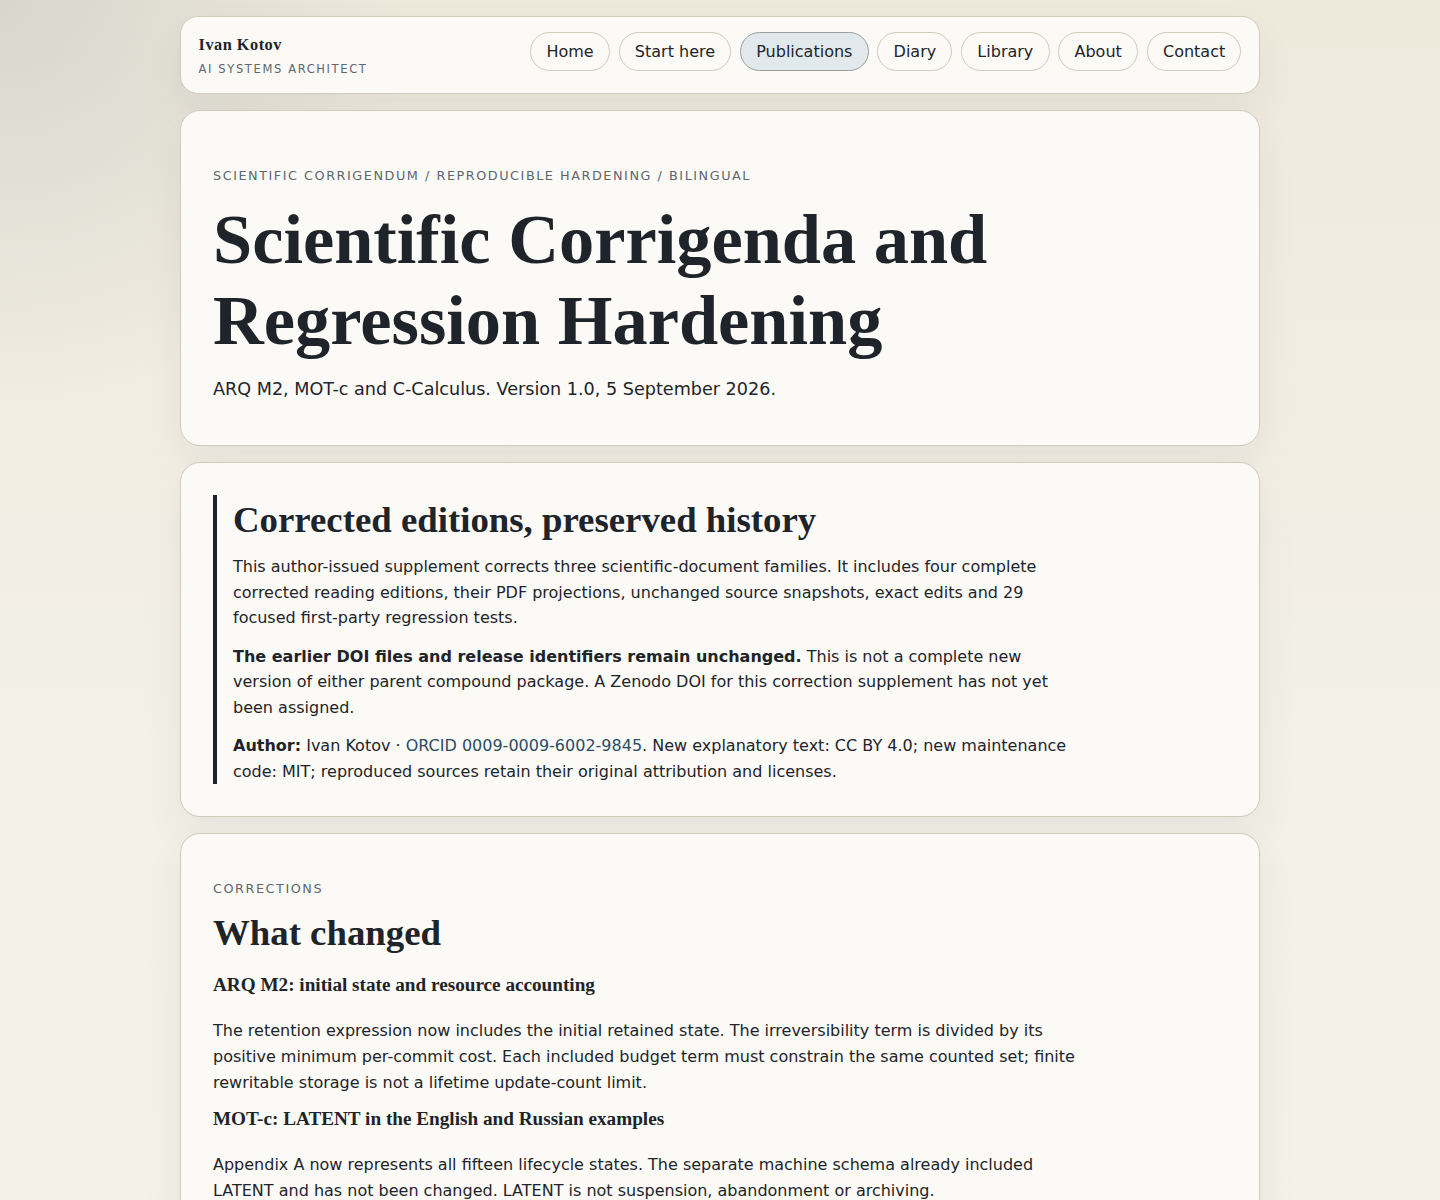
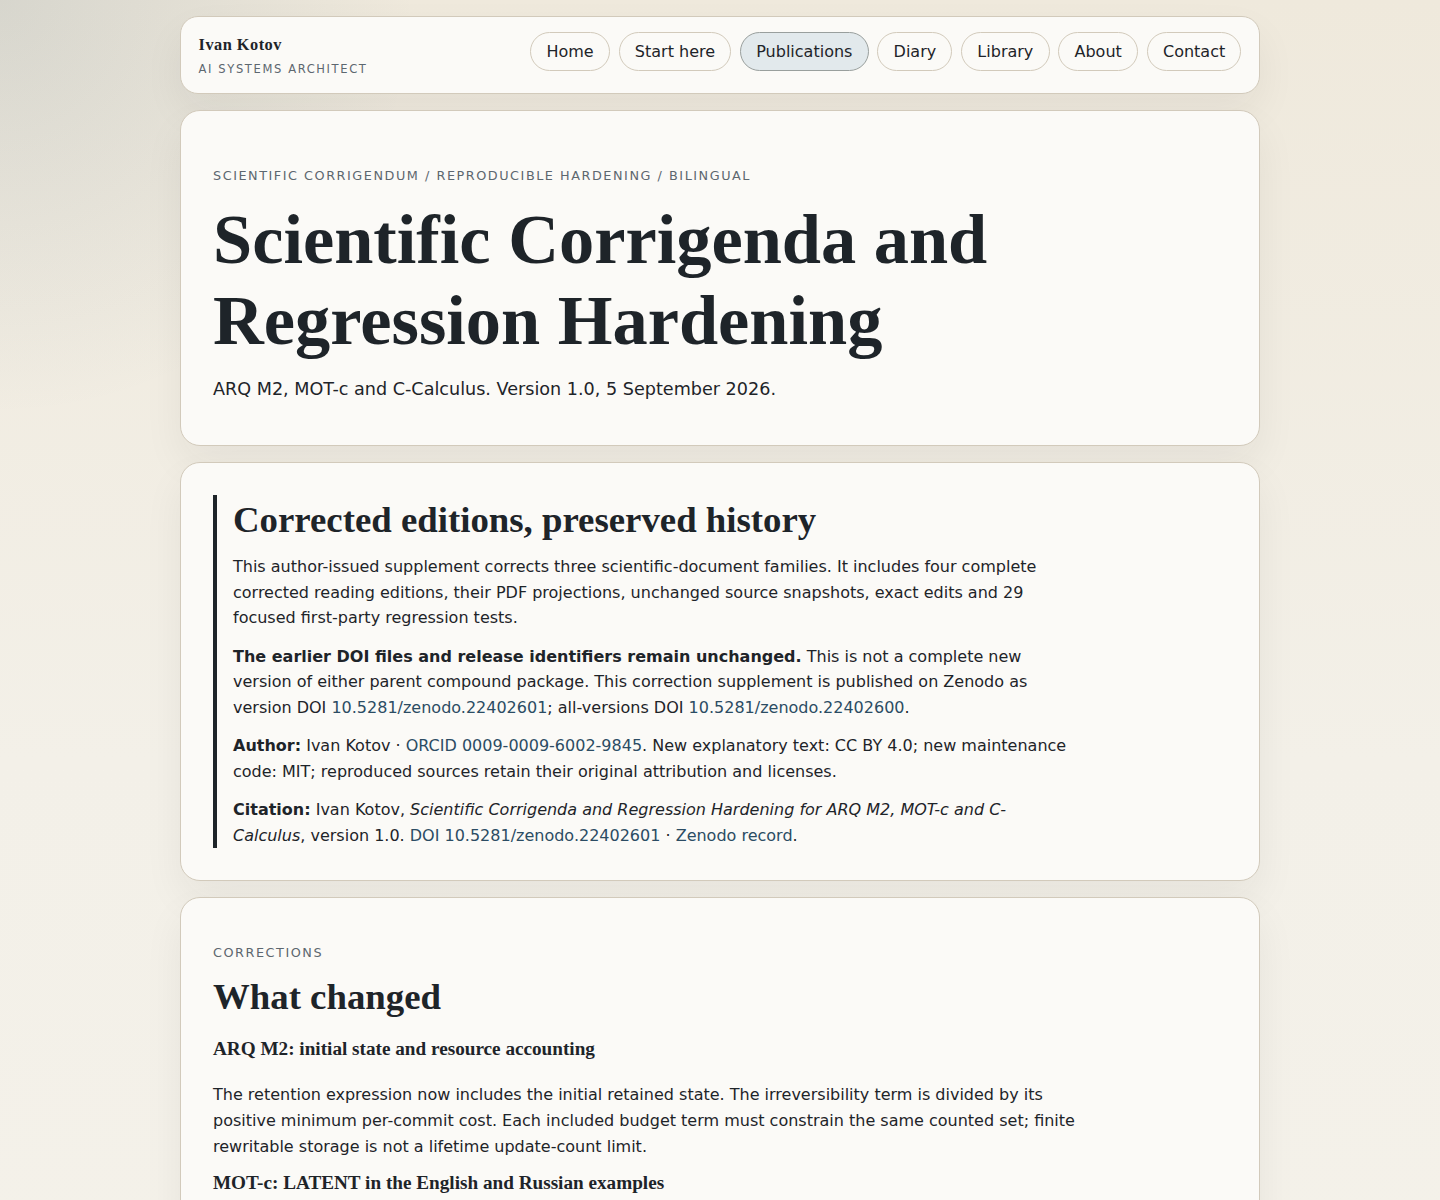
Backfill Zenodo DOI for scientific corrigenda and machine entry

Changed region(s): [[0.125, 0.6475, 0.8438, 1.0], [0.1562, 0.555, 0.7188, 0.6167]]

diff --git a/publications/scientific-corrections-v1-0/index.html b/publications/scientific-corrections-v1-0/index.html
@@ -13,8 +13,10 @@
 <meta name="citation_title" content="Scientific Corrigenda and Regression Hardening for ARQ M2, MOT-c and C-Calculus">
 <meta name="citation_author" content="Ivan Kotov">
 <meta name="citation_publication_date" content="2026-09-05">
+<meta name="citation_doi" content="10.5281/zenodo.22402601">
+<meta name="citation_publisher" content="Zenodo">
 <meta name="citation_pdf_url" content="https://ivankotov.eu/publications/scientific-corrections-v1-0/files/publication/CORRIGENDUM_EN.pdf">
-<script type="application/ld+json">{"@context": "https://schema.org", "@type": "TechArticle", "name": "Scientific Corrigenda and Regression Hardening for ARQ M2, MOT-c and C-Calculus", "url": "https://ivankotov.eu/publications/scientific-corrections-v1-0/", "datePublished": "2026-09-05", "version": "1.0", "inLanguage": ["en", "ru"], "author": {"@type": "Person", "name": "Ivan Kotov", "sameAs": "https://orcid.org/0009-0009-6002-9845"}, "license": "https://creativecommons.org/licenses/by/4.0/", "description": "Author-issued scientific correction supplement with four corrected reading editions, source-bound patches and focused first-party regression tests. No DOI for this supplement is assigned yet.", "isBasedOn": ["https://doi.org/10.5281/zenodo.22060517", "https://doi.org/10.5281/zenodo.21205427", "https://github.com/Kot141078/sovereign-entity-recursion/blob/94dcab585b5c179cf4f4e0da4ebf63261c7fb984/protocol/arq/v0.2/ARQ_System_Models_and_Assumptions_v0.2.md"], "encoding": [{"@type": "MediaObject", "encodingFormat": "application/zip", "contentUrl": "https://ivankotov.eu/publications/scientific-corrections-v1-0/files/SCIENTIFIC_CORRIGENDA_HARDENING_v1_0.zip"}]}</script>
+<script type="application/ld+json">{"@context": "https://schema.org", "@type": "TechArticle", "name": "Scientific Corrigenda and Regression Hardening for ARQ M2, MOT-c and C-Calculus", "url": "https://ivankotov.eu/publications/scientific-corrections-v1-0/", "datePublished": "2026-09-05", "version": "1.0", "identifier": "https://doi.org/10.5281/zenodo.22402601", "sameAs": ["https://doi.org/10.5281/zenodo.22402601", "https://zenodo.org/records/22402601"], "publisher": {"@type": "Organization", "name": "Zenodo"}, "inLanguage": ["en", "ru"], "author": {"@type": "Person", "name": "Ivan Kotov", "sameAs": "https://orcid.org/0009-0009-6002-9845"}, "license": "https://creativecommons.org/licenses/by/4.0/", "description": "Author-issued scientific correction supplement with four corrected reading editions, source-bound patches and focused first-party regression tests. Version DOI: 10.5281/zenodo.22402601; all-versions DOI: 10.5281/zenodo.22402600.", "isBasedOn": ["https://doi.org/10.5281/zenodo.22060517", "https://doi.org/10.5281/zenodo.21205427", "https://github.com/Kot141078/sovereign-entity-recursion/blob/94dcab585b5c179cf4f4e0da4ebf63261c7fb984/protocol/arq/v0.2/ARQ_System_Models_and_Assumptions_v0.2.md"], "encoding": [{"@type": "MediaObject", "encodingFormat": "application/zip", "contentUrl": "https://ivankotov.eu/publications/scientific-corrections-v1-0/files/SCIENTIFIC_CORRIGENDA_HARDENING_v1_0.zip"}]}</script>
 <style>.prose,.section,.section-head{min-width:0} .prose a,.hash{overflow-wrap:anywhere} .correction-notice{border-left:4px solid currentColor;padding-left:1rem} .prose pre{white-space:pre-wrap;overflow-wrap:anywhere;max-width:100%}</style>
 </head>
 <body><div class="site-shell">
@@ -24,8 +26,9 @@
 <section class="hero"><p class="eyebrow">Scientific corrigendum / reproducible hardening / bilingual</p><h1>Scientific Corrigenda and Regression Hardening</h1><p class="lead page-lead">ARQ M2, MOT-c and C-Calculus. Version 1.0, 5 September 2026.</p></section>
 <section class="section"><div class="prose correction-notice"><h2>Corrected editions, preserved history</h2>
 <p>This author-issued supplement corrects three scientific-document families. It includes four complete corrected reading editions, their PDF projections, unchanged source snapshots, exact edits and 29 focused first-party regression tests.</p>
-<p><strong>The earlier DOI files and release identifiers remain unchanged.</strong> This is not a complete new version of either parent compound package. A Zenodo DOI for this correction supplement has not yet been assigned.</p>
+<p><strong>The earlier DOI files and release identifiers remain unchanged.</strong> This is not a complete new version of either parent compound package. This correction supplement is published on Zenodo as version DOI <a href="https://doi.org/10.5281/zenodo.22402601">10.5281/zenodo.22402601</a>; all-versions DOI <a href="https://doi.org/10.5281/zenodo.22402600">10.5281/zenodo.22402600</a>.</p>
 <p><strong>Author:</strong> Ivan Kotov · <a href="https://orcid.org/0009-0009-6002-9845">ORCID 0009-0009-6002-9845</a>. New explanatory text: CC BY 4.0; new maintenance code: MIT; reproduced sources retain their original attribution and licenses.</p>
+<p><strong>Citation:</strong> Ivan Kotov, <em>Scientific Corrigenda and Regression Hardening for ARQ M2, MOT-c and C-Calculus</em>, version 1.0. <a href="https://doi.org/10.5281/zenodo.22402601">DOI 10.5281/zenodo.22402601</a> · <a href="https://zenodo.org/records/22402601">Zenodo record</a>.</p>
 </div></section>
 <section class="section"><div class="section-head"><p class="section-label">Corrections</p><h2>What changed</h2></div><div class="prose">
 <h3>ARQ M2: initial state and resource accounting</h3><p>The retention expression now includes the initial retained state. The irreversibility term is divided by its positive minimum per-commit cost. Each included budget term must constrain the same counted set; finite rewritable storage is not a lifetime update-count limit.</p>
@@ -38,7 +41,7 @@
 <p class="hash"><strong>Archive SHA-256:</strong> <code>ca1e741f7d4f2dbf76a4a66fed7a5d83cf37e599e0fc4552bbca5aaa59b4ffde</code></p>
 <ul><li><a href="files/publication/04_C_CONTINUITY_METRIC_AND_EQUIVALENCE_SEMANTICS_v0_1_2_CORRECTED_20260905.pdf">04 C CONTINUITY METRIC AND EQUIVALENCE SEMANTICS v0 1 2</a></li><li><a href="files/publication/ARQ_System_Models_and_Assumptions_v0.2_CORRECTED_20260905.pdf">ARQ System Models and Assumptions v0.2</a></li><li><a href="files/publication/CORRIGENDUM_EN.pdf">CORRIGENDUM EN</a></li><li><a href="files/publication/CORRIGENDUM_RU.pdf">CORRIGENDUM RU</a></li><li><a href="files/publication/MOT_c_Foundation_Theory_v0_1_EN_CORRECTED_20260905.pdf">MOT c Foundation Theory v0 1 EN</a></li><li><a href="files/publication/MOT_c_Foundation_Theory_v0_1_RU_CORRECTED_20260905.pdf">MOT c Foundation Theory v0 1 RU</a></li></ul>
 <p><a href="files/CORRIGENDUM_EN.md">English Markdown corrigendum</a> · <a href="files/CORRIGENDUM_RU.md">Русская ведомость исправлений</a> · <a href="files/SOURCE_BINDINGS.json">Exact source bindings</a> · <a href="files/patches/corrections.json">Literal edits</a> · <a href="files/evidence/REGRESSION_TESTS.txt">Regression test output</a></p>
-<p><a href="https://github.com/Kot141078/advanced-global-intelligence/tree/78bce9419de6006a21fdfd8fcf1aee35c383205c/hardening/scientific_corrigenda_v1_0">Commit-pinned public repository package</a> · <a href="https://github.com/Kot141078/sovereign-entity-recursion/blob/5132db5c3119fe070182e9e975600304e60f7f4c/protocol/arq/corrections/20260905/README.md">SER-owned ARQ correction notice</a></p>
+<p><a href="https://github.com/Kot141078/advanced-global-intelligence/tree/78bce9419de6006a21fdfd8fcf1aee35c383205c/hardening/scientific_corrigenda_v1_0">Commit-pinned public repository package</a> · <a href="https://github.com/Kot141078/advanced-global-intelligence/commit/d170b0e8cd09a590a1826cf907125bd5cdc4dc1d">GPG-verified acceptance commit</a> · <a href="https://github.com/Kot141078/sovereign-entity-recursion/blob/5132db5c3119fe070182e9e975600304e60f7f4c/protocol/arq/corrections/20260905/README.md">SER-owned ARQ correction notice</a></p>
 </div></section>
 <section class="section"><div class="section-head"><p class="section-label">Source and claim boundary</p><h2>What the checks establish</h2></div><div class="prose">
 <p>The final build obtained exact commit-pinned public GitHub source bytes and matched their recorded sizes and SHA-256 values. Full Zenodo deposit archives were not retrieved in this correction exercise. Exact ARQ M2 membership in a particular deposit remains unresolved; the c[q] addendum DOI is not substituted.</p>
@@ -47,7 +50,7 @@
 </div></section>
 <section class="section" lang="ru"><div class="section-head"><p class="section-label">По-русски</p><h2>Что исправлено</h2></div><div class="prose">
 <p>В ARQ восстановлено начальное состояние и согласованы единицы бюджета. В обоих приложениях MOT-c возвращено существующее состояние LATENT; правильная машинная схема не менялась. В C-Calculus разведены разные математические отношения и уточнён учёт конечной трассы.</p>
-<p>Это прозрачное исправление опубликованного корпуса, а не переписывание прошлого. Старые DOI и их файлы сохранены. Архив содержит полные исправленные тексты и PDF, а не только список замечаний. Новый DOI дополнения пока не назначен.</p>
+<p>Это прозрачное исправление опубликованного корпуса, а не переписывание прошлого. Старые DOI и их файлы сохранены. Архив содержит полные исправленные тексты и PDF, а не только список замечаний. DOI дополнения: <a href="https://doi.org/10.5281/zenodo.22402601">10.5281/zenodo.22402601</a>; общий DOI всех версий: <a href="https://doi.org/10.5281/zenodo.22402600">10.5281/zenodo.22402600</a>.</p>
 <p>На стройке новая редакция чертежа не меняет задним числом старый акт осмотра. Здесь тот же принцип: точная старая версия, явная поправка, проверяемый новый файл.</p>
 </div></section>
 </main><footer class="site-footer"><p>Ivan Kotov · <a href="../../publications/">Publications</a> · <a href="../../contact/">Contact</a></p></footer>

diff --git a/publications/origin-neutral-recognition-provisional-care-v0-1/index.html b/publications/origin-neutral-recognition-provisional-care-v0-1/index.html
@@ -121,7 +121,7 @@
 
     <main>
 <!-- SCIENTIFIC-CORRECTION-20260905 -->
-<section class="section" aria-label="Scientific correction"><div class="prose"><h2>Scientific correction · 5 September 2026</h2><p>Section 10 uses a bounded-summary control. Interpret its result as replacement/compression cost unless relevant information parity and the strong matched baseline are independently established. No new experimental result is reported.</p><p><a href="/publications/scientific-corrections-v1-0/">Read the corrigendum and full corrected editions</a>. Historical DOI files and citation metadata remain unchanged.</p></div></section>
+<section class="section" aria-label="Scientific correction"><div class="prose"><h2>Scientific correction · 5 September 2026</h2><p>Section 10 uses a bounded-summary control. Interpret its result as replacement/compression cost unless relevant information parity and the strong matched baseline are independently established. No new experimental result is reported.</p><p><a href="/publications/scientific-corrections-v1-0/">Read the corrigendum and full corrected editions</a>. Historical DOI files and citation metadata remain unchanged. Correction DOI: <a href="https://doi.org/10.5281/zenodo.22402601">10.5281/zenodo.22402601</a>.</p></div></section>
 
       <section class="hero">
         <p class="eyebrow">Draft conceptual / normative boundary note</p>

diff --git a/publications/ccalc-full-stack-v0-1/index.html b/publications/ccalc-full-stack-v0-1/index.html
@@ -197,7 +197,7 @@
 
     <main>
 <!-- SCIENTIFIC-CORRECTION-20260905 -->
-<section class="section" aria-label="Scientific correction"><div class="prose"><h2>Scientific correction · 5 September 2026</h2><p>Document 04 sections 18 and 21 now distinguish relation types and specify finite observed-adjacency counting. Hard invariants, admission algorithms and historical component evidence are unchanged.</p><p><a href="/publications/scientific-corrections-v1-0/">Read the corrigendum and full corrected editions</a>. Historical DOI files and citation metadata remain unchanged.</p></div></section>
+<section class="section" aria-label="Scientific correction"><div class="prose"><h2>Scientific correction · 5 September 2026</h2><p>Document 04 sections 18 and 21 now distinguish relation types and specify finite observed-adjacency counting. Hard invariants, admission algorithms and historical component evidence are unchanged.</p><p><a href="/publications/scientific-corrections-v1-0/">Read the corrigendum and full corrected editions</a>. Historical DOI files and citation metadata remain unchanged. Correction DOI: <a href="https://doi.org/10.5281/zenodo.22402601">10.5281/zenodo.22402601</a>.</p></div></section>
 
       <section class="hero">
         <p class="eyebrow">DOI-published governed binding stack</p>

diff --git a/publications/motivational-formation-c-v0-1/index.html b/publications/motivational-formation-c-v0-1/index.html
@@ -123,7 +123,7 @@
 
     <main>
 <!-- SCIENTIFIC-CORRECTION-20260905 -->
-<section class="section" aria-label="Scientific correction"><div class="prose"><h2>Scientific correction · 5 September 2026</h2><p>Appendix A in both languages omitted LATENT. The corrected examples align with the existing fifteen-state lifecycle; the machine schema was already correct and is unchanged.</p><p><a href="/publications/scientific-corrections-v1-0/">Read the corrigendum and full corrected editions</a>. Historical DOI files and citation metadata remain unchanged.</p></div></section>
+<section class="section" aria-label="Scientific correction"><div class="prose"><h2>Scientific correction · 5 September 2026</h2><p>Appendix A in both languages omitted LATENT. The corrected examples align with the existing fifteen-state lifecycle; the machine schema was already correct and is unchanged.</p><p><a href="/publications/scientific-corrections-v1-0/">Read the corrigendum and full corrected editions</a>. Historical DOI files and citation metadata remain unchanged. Correction DOI: <a href="https://doi.org/10.5281/zenodo.22402601">10.5281/zenodo.22402601</a>.</p></div></section>
 
       <section class="hero">
         <p class="eyebrow">Publication / technical note / bilingual / DOI-bound</p>

diff --git a/publications/index.html b/publications/index.html
@@ -966,7 +966,7 @@
 
     <main>
 <!-- SCIENTIFIC-CORRECTION-20260905 -->
-<section class="section" aria-label="Scientific correction"><div class="prose"><h2>Scientific correction · 5 September 2026</h2><p>A source-bound corrigendum and regression-hardening supplement is available for ARQ M2, MOT-c and C-Calculus.</p><p><a href="/publications/scientific-corrections-v1-0/">Read the corrigendum and full corrected editions</a>. Historical DOI files and citation metadata remain unchanged.</p></div></section>
+<section class="section" aria-label="Scientific correction"><div class="prose"><h2>Scientific correction · 5 September 2026</h2><p>A source-bound corrigendum and regression-hardening supplement is available for ARQ M2, MOT-c and C-Calculus.</p><p><a href="/publications/scientific-corrections-v1-0/">Read the corrigendum and full corrected editions</a> · <a href="https://doi.org/10.5281/zenodo.22402601">DOI 10.5281/zenodo.22402601</a> · <a href="https://zenodo.org/records/22402601">Zenodo</a>. Historical parent DOI files and citation metadata remain unchanged.</p></div></section>
 
       <section class="hero">
         <p class="eyebrow">Public works</p>
